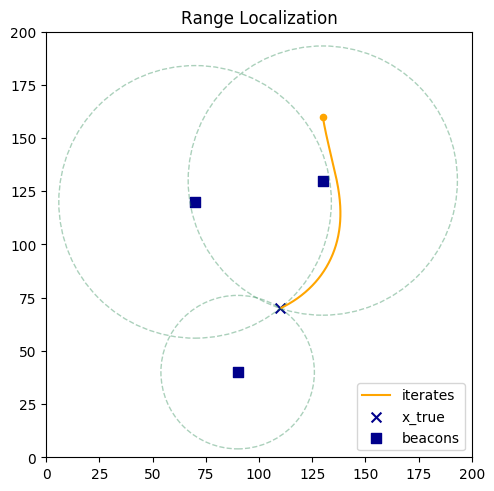
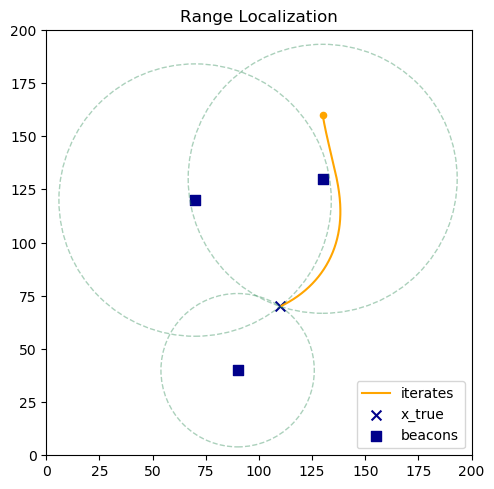
refactor plotting and remove non-jit version

diff --git a/src/beacons.py b/src/beacons.py
@@ -1,27 +1,46 @@
 import numba
 import numpy as np
 import numpy.linalg as la
-import matplotlib
-import matplotlib.pyplot as plt
 import sys
 
+from plotting import plot_experiment
+
+
+spec = [
+    ('criterion', numba.float32),
+    ('max_iters', numba.int32),
+    ('msmts', numba.float32[:]),
+    ('beacons', numba.float32[:, :]),
+    ('eye', numba.float32[:, :]),
+    ('up', numba.float32),
+    ('down', numba.float32),
+    ('lbd', numba.float32),
+]
+
+
+@numba.jitclass(spec)
 class LevenbergMarquardt:
 
-    def __init__(self, n, f, jacobian, criterion=1.0, max_iters=100):
+    def __init__(self, n, msmts, beacons, criterion, max_iters):
         self.criterion = criterion
         self.max_iters = max_iters
-        self.eye = np.eye(n)
-        self.jacobian = jacobian
-        self.func = f
-        self.up = 2.0
-        self.down = 0.8
-        self.lbd = 1.0
+        self.msmts = msmts.astype(np.float32)
+        self.beacons = beacons.astype(np.float32)
+        self.eye = np.eye(n).astype(np.float32)
+        self.up, self.down, self.lbd = 2.0, 0.8, 1.0
+
+    def jacobian(self, x):
+        return 2 * (x - self.beacons)
+
+    def func(self, x):
+        norm = np.sqrt(((x - self.beacons) ** 2).sum(-1))
+        return norm - self.msmts
 
     def _get_iterate(self, x, fval):
         """Assume linear dynamics locally."""
         J = self.jacobian(x)
         mat = J.T @ J + self.lbd * self.eye
-        x_iter = x - la.inv(mat) @ J.T @ fval
+        x_iter = x - np.ascontiguousarray(la.inv(mat)) @ J.T @ fval
         return x_iter
 
     def _compare(self, f0, f1, x, x_iter):
@@ -52,76 +71,15 @@ class LevenbergMarquardt:
         history = np.float32(history)
         return exitcode, x, history
 
-spec = [
-    ('criterion', numba.float32),
-    ('max_iters', numba.int32),
-    ('msmts', numba.float32[:]),
-    ('beacons', numba.float32[:, :]),
-    ('eye', numba.float32[:, :]),
-    ('up', numba.float32),
-    ('down', numba.float32),
-    ('lbd', numba.float32),
-]
-
-@numba.jitclass(spec)
-class LevenbergMarquardtJit(LevenbergMarquardt):
-
-    def __init__(self, n, msmts, beacons, criterion, max_iters):
-        self.criterion = criterion
-        self.max_iters = max_iters
-        self.msmts = msmts.astype(np.float32)
-        self.beacons = beacons.astype(np.float32)
-        self.eye = np.eye(n).astype(np.float32)
-        self.up = 2.0
-        self.down = 0.8
-        self.lbd = 1.0
-
-    def jacobian(self, x):
-        return 2 * (x - self.beacons)
-
-    def func(self, x):
-        norm = np.sqrt(((x - self.beacons) ** 2).sum(-1))
-        return norm - self.msmts
-
-def make_circles(beacons, radii):
-    kwargs = dict(fill=False, color='seagreen', alpha=0.4, linestyle='dashed')
-    mapfunc = lambda tup: matplotlib.patches.Circle(*tup, **kwargs)
-    circles = map(mapfunc, zip(beacons, radii))
-    return circles
-
-def add_circles(beacons, radii, ax):
-    circles = make_circles(beacons, radii)
-    list(map(ax.add_patch, circles))
-
-def set_plot_properties(fig, ax):
-    fig.tight_layout()
-    ax.set(xlim=[0, 200], ylim=[0, 200],
-        aspect='equal', title='Range Localization')
-    ax.legend()
-
-def plot_experiment(history, position, beacons, radii):
-    fig, ax = plt.subplots(figsize=(5, 5))
-    add_circles(beacons, radii, ax)
-    ax.scatter(*position, c='darkblue', s=50, marker='x', label='x_true')
-    ax.scatter(*beacons.T, c='darkblue', s=50, marker='s', label='beacons')
-    ax.scatter(*history[0], c='orange', s=20, marker='o')
-    ax.plot(*history.T, c='orange', label='iterates')
-    set_plot_properties(fig, ax)
-    fig.savefig('../images/beacon.png', dpi=100, bbox_inches='tight')
-    plt.show()
 
 def make_lm(beacons, dist, sigma=1e-1, jitted=False):
     kwargs = dict(criterion=1.0, max_iters=1000)
     m, n = beacons.shape
     noise = np.random.normal(0, sigma, size=(m,))
     msmts = dist + noise
-    if jitted:
-        lm = LevenbergMarquardtJit(n, msmts, beacons, **kwargs)
-    else:
-        jacobian = lambda x: 2 * (x - beacons)
-        func = lambda x: la.norm(x - beacons, axis=-1) - msmts
-        lm = LevenbergMarquardt(n, func, jacobian, **kwargs)
+    lm = LevenbergMarquardt(n, msmts, beacons, **kwargs)
     return lm
+
 
 def make_problem():
     position = np.array([110, 70], np.float32)
@@ -129,9 +87,11 @@ def make_problem():
     dist = la.norm(position[None, :] - beacons, axis=-1)
     return position, beacons, dist
 
+
 def maybe_raise(exitcode):
     if exitcode != 0:
         raise ValueError('Stopping criterion not reached.')
+
 
 def parse_args():
     try:
@@ -139,6 +99,7 @@ def parse_args():
     except IndexError:
         jitted = False
     return jitted
+
 
 def main():
     jitted = parse_args()
@@ -148,6 +109,7 @@ def main():
     exitcode, x, history = lm.solve(x0)
     maybe_raise(exitcode)
     plot_experiment(history, position, beacons, dist)
+
 
 if __name__ == '__main__':
     main()

diff --git a/src/plotting.py b/src/plotting.py
@@ -1,0 +1,33 @@
+import matplotlib as mpl
+import matplotlib.pyplot as plt
+
+
+def make_circles(beacons, radii):
+    kwargs = dict(fill=False, color='seagreen', alpha=0.4, linestyle='dashed')
+    mapfunc = lambda tup: mpl.patches.Circle(*tup, **kwargs)
+    circles = map(mapfunc, zip(beacons, radii))
+    return circles
+
+
+def add_circles(beacons, radii, ax):
+    circles = make_circles(beacons, radii)
+    list(map(ax.add_patch, circles))
+
+
+def set_plot_properties(fig, ax):
+    fig.tight_layout()
+    ax.set(xlim=[0, 200], ylim=[0, 200],
+        aspect='equal', title='Range Localization')
+    ax.legend()
+
+
+def plot_experiment(history, position, beacons, radii):
+    fig, ax = plt.subplots(figsize=(5, 5))
+    add_circles(beacons, radii, ax)
+    ax.scatter(*position, c='darkblue', s=50, marker='x', label='x_true')
+    ax.scatter(*beacons.T, c='darkblue', s=50, marker='s', label='beacons')
+    ax.scatter(*history[0], c='orange', s=20, marker='o')
+    ax.plot(*history.T, c='orange', label='iterates')
+    set_plot_properties(fig, ax)
+    fig.savefig('../images/beacon.png', dpi=100, bbox_inches='tight')
+    plt.show()
